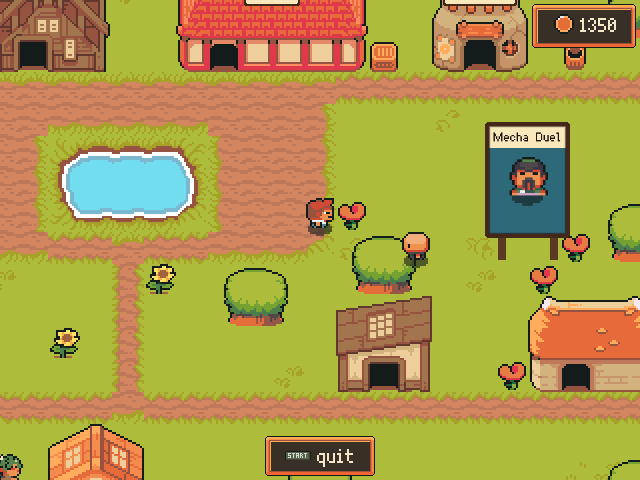
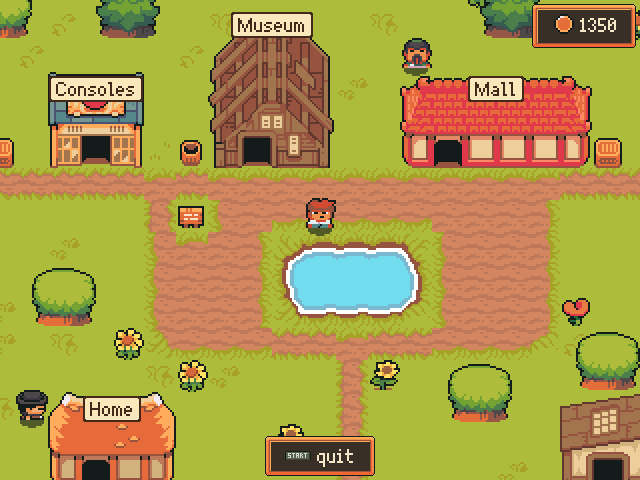
Add more main character options

diff --git a/CLAUDE.md b/CLAUDE.md
@@ -57,6 +57,7 @@ LÖVE 11.5 + LuaJIT game distributed as a PortMaster port. The target is an Anbe
 - **Prices:**
   - A game costs `(generation - 1) * 20`, scaled 0.75–1.25 by rating and rounded to 5.
   - A console costs `generation * 100`.
+  - Handhelds count a generation below their historical one (`handheld` in `core/consoles.lua`), for prices and progression alike: their games can't compete in complexity with the home consoles of their time. The Switch counts as a home console.
 - **Earning coins:**
   - Play: 2 coins per minute, capped at 120 minutes per session.
   - RetroAchievements: 5 coins per point, x2 in hardcore. Unlocks from before tracking started pay x0.5, once.
@@ -100,7 +101,7 @@ LÖVE 11.5 + LuaJIT game distributed as a PortMaster port. The target is an Anbe
 - **Arcade Club:** a rectangular room with four big cabinets (2x3 tiles) against its left and right walls. They're seen from the side, and the game's cover art fills each cabinet's whole shape (`art.cabinet`: the art is cut to `CabinetMask.png`, `CabinetTrims.png` goes on top, and the result is kept per cover). Right-wall cabinets mirror their shape, never the art. The games are this week's (`arcade.cabinets`), the same for everyone that week. A on a cabinet shows it up close, filling the screen (`scenes/attract.lua`): the cabinet in its color, the game's marquee art (or its name), and a 4:3 screen. The screen shows the screenshot until the video loads, then loops the video in the same spot. There, A plays the game for 1 coin, launching it like the collection does; play pays coins as usual, through `sessions.log`. A clerk (the RobotGreen sprite) behind a counter at the back explains the coin and the weekly games, and sells any cabinet's game for 100 coins (`Shop.arcade`). That cabinet then shows the week's next game, until the next Monday.
 - **Preloading:** the town loads the mall's posters, the home cabinet's art and the arcade's art (side art, screenshots, marquees) along with its billboards (`Mall.adPaths`, `Arcade.artPaths`), so they show as soon as the player walks in.
 - **Buildings:** a building can widen its sprite by repeating columns (`columns` in `HOUSES`); the mall is 6 wide.
-- **Player look:** `state.player` is "boy" (`Boy.png`) or "girl" (`Girl.png`, the pack's SorcererBlack).
+- **Player look:** `state.player` is one of `townsfolk.PLAYER_LOOKS`, each a native sprite of the pack in `assets/ninja-adventure/villagers/`: "boy" (`Boy`), "boyDark" (`Villager3`), "girl" (`Girl`, the pack's SorcererBlack) and "girlDark" (`Princess`), the pack's only darker-skinned characters that fit (the user rejected recoloring Boy and Girl). The intro offers all four. Juno and Princess Amara wear Villager3 and Princess; when the player has chosen the same look, that villager wears the other look of its kind instead (Boy or Girl; `townsfolk.spriteFor`), so no one in town looks just like the player.
 
 ## Verifying changes visually
 - **Harness:** for anything visual, copy `src/` into a scratch folder and append a driver to its `main.lua`:
